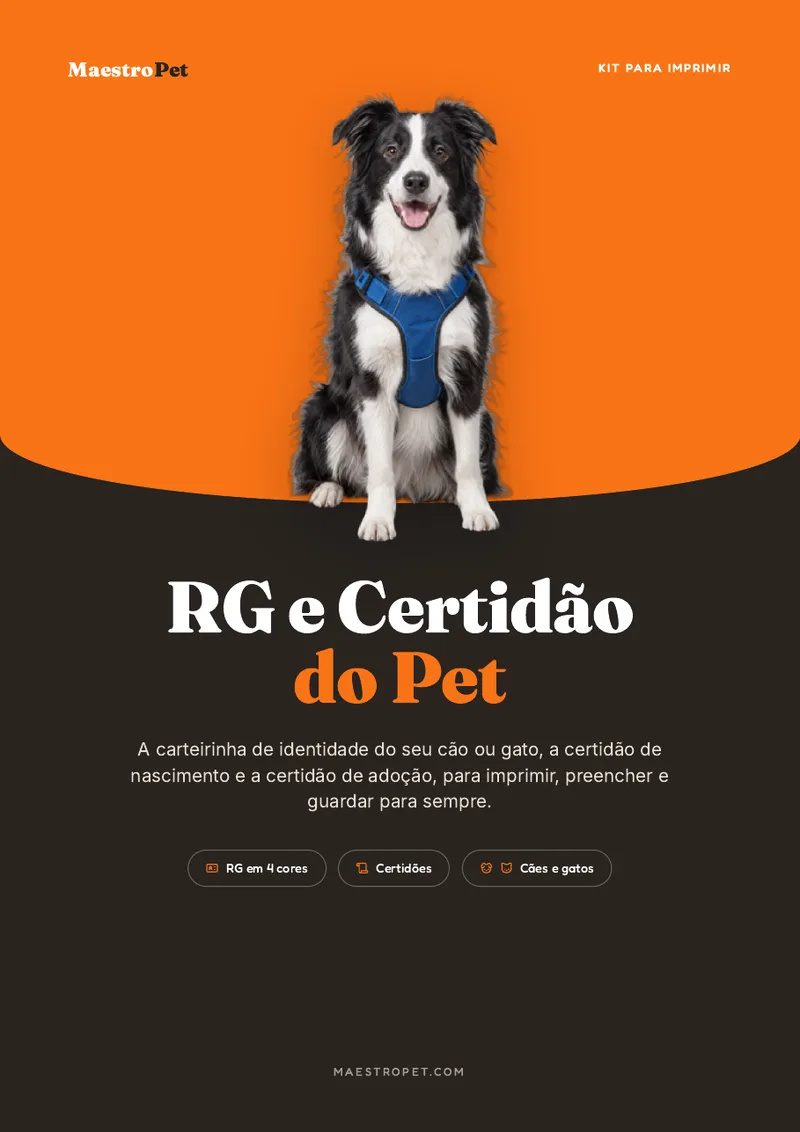
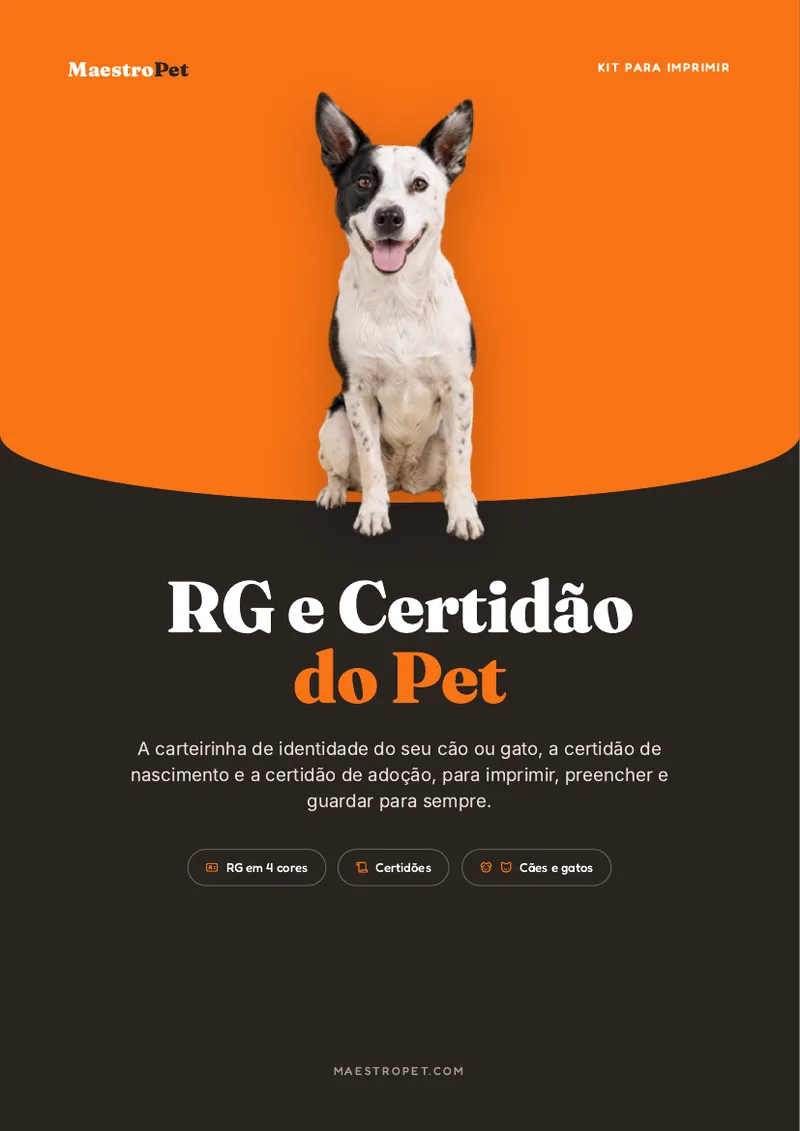
Páginas de vendas: Calendário 2027 (/calendario) e Kit Papelaria (/papelaria), fora do ar até lançar
Claude-Session: https://claude.ai/code/session_015DPV1uKuxt4KhrgCQWoJpN

diff --git a/src/lib/vendas/calendario.ts b/src/lib/vendas/calendario.ts
@@ -1,0 +1,107 @@
+import type { PaginaVendas } from "./tipos";
+
+export const calendario: PaginaVendas = {
+  slug: "calendario",
+  seo: {
+    titulo: "Calendário 2027 do Pet — para imprimir, com a foto dele em cada mês",
+    descricao:
+      "O calendário de parede de 2027 para imprimir, com a foto do seu pet em cada mês, as datas de vacina, vermífugo e antipulgas, os feriados e uma dica de cuidado por mês. R$ 9,90.",
+  },
+  hero: {
+    eyebrow: "Calendário para imprimir · cães e gatos",
+    antes: "2027 com a cara dele ",
+    destaque: "em cada mês",
+    depois: ".",
+    lead: "O calendário de parede com a foto do seu pet em cada mês e o cantinho da saúde: vacina, vermífugo, antipulgas e peso. Ninguém da casa esquece mais a próxima dose.",
+    selos: ["Acesso imediato", "12 meses + plano do ano", "Garantia de 7 dias"],
+  },
+  dores: {
+    titulo: "Na sua casa também é assim?",
+    frases: [
+      "Quem deu o vermífugo? E quando foi?",
+      "A vacina venceu e ninguém percebeu.",
+      "O antipulgas era para ter sido trocado mês passado.",
+      "Tenho fotos lindas dele que nunca saíram do celular.",
+      "Queria um presente diferente para quem ama o pet.",
+      "Esqueci de preparar ele para os fogos do Réveillon de novo.",
+    ],
+  },
+  virada: {
+    imagem: "/produtos/calendario-pag4.webp",
+    alt: "Página de janeiro do Calendário 2027 do Pet",
+    eyebrow: "Bonito e útil",
+    titulo: "Um calendário que cuida dele com você.",
+    paragrafos: [
+      "Cada mês tem um quadro grande para **a foto do seu pet**, a grade com os feriados nacionais e as datas do mundo pet, e um **cantinho da saúde** para marcar vacina, vermífugo, antipulgas e peso.",
+      "E uma **dica por mês**, pensada para a época: calor do verão, fogos das festas juninas e do Réveillon, pulgas na primavera, comidas proibidas no Natal.",
+    ],
+  },
+  recebe: {
+    titulo: "O que vem no calendário",
+    itens: [
+      ["12 meses de 2027", "Com espaço para a foto do mês, feriados nacionais e datas do mundo pet."],
+      ["Saúde do mês", "Vacina, vermífugo, antipulgas e peso, para marcar com um X."],
+      ["Dica do mês", "Um cuidado da época, mês a mês."],
+      ["O plano do ano numa página", "Os cuidados de 2027 de uma vez, para ver o ano inteiro."],
+      ["Selos para recortar", "Vacina, vermífugo, banho, aniversário, fogos e mais, para marcar os dias."],
+      ["Para cães e gatos", "E para imprimir quantas vezes quiser."],
+    ],
+    paginas: [
+      ["/produtos/calendario-pag4.webp", "Um dos meses"],
+      ["/produtos/calendario-pag2.webp", "Os selos para marcar os dias"],
+    ],
+  },
+  metodo: {
+    eyebrow: "Como usar",
+    titulo: "Pronto para a parede",
+    imagem: "/produtos/capa-calendario.webp",
+    alt: "Capa do Calendário 2027 do Pet",
+    passos: [
+      ["Imprima", "Em papel mais grosso, de preferência"],
+      ["Cole as fotos", "Uma foto dele por mês"],
+      ["Marque as datas", "Da carteira de vacinação para o calendário"],
+      ["Pendure", "Com espiral, perto da porta ou na geladeira"],
+    ],
+  },
+  bonus: {
+    titulo: "Também no calendário",
+    itens: [
+      { imagem: "/produtos/calendario-pag2.webp", titulo: "Selos para recortar", texto: "12 selos para marcar vacina, vermífugo, banho, aniversário e mais." },
+      { icone: "🎆", titulo: "Lembretes de fogos", texto: "Nos meses de festa, a dica para preparar o seu pet com antecedência." },
+      { icone: "🎁", titulo: "Ótimo presente", texto: "Imprima com as fotos do pet de quem você ama." },
+    ],
+  },
+  paraQuem: {
+    sim: [
+      "Você tem cão, gato ou os dois",
+      "Você quer organizar vacina, vermífugo e antipulgas",
+      "Você quer as fotos dele na parede",
+      "Você procura um presente diferente para quem ama pets",
+    ],
+    nao: [
+      "Você quer um calendário já impresso: este é para imprimir",
+      "Você prefere lembretes só no celular",
+    ],
+  },
+  oferta: {
+    itens: [
+      "Calendário 2027 com 12 meses",
+      "Espaço para a foto do pet em cada mês",
+      "Saúde do mês e dica do mês",
+      "Plano de saúde do ano numa página",
+      "Selos para recortar e marcar os dias",
+      "Feriados nacionais e datas do mundo pet",
+    ],
+  },
+  garantia:
+    "Imprima e pendure o calendário. Se em até 7 dias você achar que não valeu a pena, é só pedir o reembolso e você recebe 100% do valor de volta. Sem perguntas e sem burocracia.",
+  faq: [
+    ["Serve para gato?", "Sim. O calendário é para cães e gatos."],
+    ["Tem os feriados?", "Sim, os feriados nacionais de 2027. Os feriados da sua cidade você marca com os selos ou à mão."],
+    ["Como penduro?", "Imprima em papel mais grosso e peça furação e espiral na papelaria. Também dá para prender com um clipe ou um ímã na geladeira."],
+    ["Como recebo?", "Logo depois da confirmação do pagamento você recebe o acesso no seu e-mail, com o calendário em PDF."],
+  ],
+  ctaFinal: "Um ano inteiro com ele, um dia de cada vez.",
+  aviso:
+    "As dicas do mês são orientações gerais e não substituem o veterinário: o esquema de vacinas e de medicamentos de cada pet é definido por ele.",
+};

diff --git a/src/lib/vendas/papelaria.ts b/src/lib/vendas/papelaria.ts
@@ -1,0 +1,108 @@
+import type { PaginaVendas } from "./tipos";
+
+export const papelaria: PaginaVendas = {
+  slug: "papelaria",
+  seo: {
+    titulo: "Kit Papelaria do Pet — 6 kits para imprimir num pacote só",
+    descricao:
+      "Carteira de vacinação + guia, RG e certidão, álbum do primeiro ano, calendário 2027, ficha de cuidados e checklists de viagem: os 6 kits para imprimir da Maestro Pet por R$ 24,90.",
+  },
+  hero: {
+    eyebrow: "6 kits para imprimir · cães e gatos",
+    antes: "Tudo do seu pet ",
+    destaque: "organizado e impresso",
+    depois: ".",
+    lead: "A carteira de vacinação, o RG, o álbum do primeiro ano, o calendário de 2027, a ficha para quem cuida dele e os checklists de viagem. Seis kits para imprimir, num pacote só.",
+    selos: ["Acesso imediato", "6 kits", "Garantia de 7 dias"],
+  },
+  dores: {
+    titulo: "Para quem quer tudo do pet no lugar",
+    frases: [
+      "A carteirinha de vacina está rasgada e perdida.",
+      "Nunca lembro a data do vermífugo e do antipulgas.",
+      "Tenho mil fotos dele e nenhuma impressa.",
+      "Toda viagem é a mesma correria para explicar a rotina dele.",
+      "Sempre esqueço alguma coisa na mala do pet.",
+      "Queria uma lembrança bonita do dia em que ele chegou.",
+    ],
+  },
+  virada: {
+    imagem: "/produtos/papelaria-kits.webp",
+    alt: "As capas dos 6 kits para imprimir",
+    eyebrow: "Seis kits, um preço",
+    titulo: "Tudo o que dá para imprimir, num pacote só.",
+    paragrafos: [
+      "São os **6 kits para imprimir** da Maestro Pet: saúde, documentos, memórias, rotina do ano, cuidados e viagem. Separados, custam **R$ 54,40**. No pacote, saem por **R$ 24,90**.",
+      "Imprima em casa ou na gráfica, **quantas vezes quiser**, para todos os pets da casa.",
+    ],
+  },
+  recebe: {
+    titulo: "Os 6 kits",
+    itens: [
+      ["Kit Saúde do Pet", "A carteira de vacinação para imprimir, com espaço para o veterinário, e o guia de vacinas, vermífugo e antipulgas."],
+      ["RG e Certidão do Pet", "O RG para plastificar, a certidão de nascimento e a certidão de adoção."],
+      ["Álbum do Primeiro Ano", "As fotos, as primeiras vezes e o mês a mês do primeiro ano juntos."],
+      ["Calendário 2027 do Pet", "O calendário de parede com a foto dele em cada mês e a saúde do mês."],
+      ["Quem Fica com o Pet", "A ficha completa para quem cuida dele quando você viaja."],
+      ["Mala do Pet", "Os checklists para viajar com ele sem esquecer nada."],
+    ],
+    paginas: [
+      ["/produtos/saude-carteira-vacina.webp", "A carteira de vacinação"],
+      ["/produtos/album-pag9.webp", "O álbum mês a mês"],
+    ],
+  },
+  metodo: {
+    eyebrow: "Como usar",
+    titulo: "Um kit para cada momento",
+    imagem: "/produtos/rg-pag6.webp",
+    alt: "O RG do Mozart preenchido",
+    rotulo: "Kit",
+    passos: [
+      ["Saúde", "Carteira na próxima vacina"],
+      ["Documentos", "RG e certidão para guardar"],
+      ["Memórias", "Álbum e calendário com as fotos dele"],
+      ["Viagens", "Ficha de cuidados e checklists"],
+    ],
+  },
+  bonus: {
+    titulo: "Por que vale o pacote",
+    itens: [
+      { icone: "💰", titulo: "Mais da metade de desconto", texto: "R$ 54,40 separados, R$ 24,90 no pacote." },
+      { icone: "🖨", titulo: "Imprima quantas vezes quiser", texto: "Para todos os pets da casa, sem pagar de novo." },
+      { icone: "🎁", titulo: "Presente pronto", texto: "Para quem acabou de adotar ou de ganhar um filhote." },
+    ],
+  },
+  paraQuem: {
+    sim: [
+      "Você tem cão, gato ou os dois",
+      "Você gosta de ter tudo organizado e impresso",
+      "Você acabou de adotar ou ganhou um filhote",
+      "Você quer presentear quem ama pets",
+    ],
+    nao: [
+      "Você quer os kits já impressos: eles são para imprimir",
+      "Você procura um guia de adestramento: veja os nossos guias",
+    ],
+  },
+  oferta: {
+    itens: [
+      "Kit Saúde do Pet (carteira de vacinação + guia)",
+      "RG e Certidão do Pet",
+      "Álbum do Primeiro Ano",
+      "Calendário 2027 do Pet",
+      "Quem Fica com o Pet",
+      "Mala do Pet",
+    ],
+  },
+  garantia:
+    "Imprima os kits e use. Se em até 7 dias você achar que não valeu a pena, é só pedir o reembolso e você recebe 100% do valor de volta. Sem perguntas e sem burocracia.",
+  faq: [
+    ["A carteira de vacinação vale como documento?", "Sim. O que dá valor de documento é o registro do veterinário em cada vacina: etiqueta, data, carimbo com o CRMV e assinatura. A carteira tem todos esses campos."],
+    ["O RG é oficial?", "Não. O RG e as certidões são documentos de lembrança. O cadastro oficial e gratuito é o SinPatinhas, e o kit ensina a fazer."],
+    ["Serve para gato?", "Sim. Todos os kits servem para cães e gatos."],
+    ["Como recebo?", "Logo depois da confirmação do pagamento você recebe o acesso no seu e-mail, com os 6 kits em PDF."],
+  ],
+  ctaFinal: "Tudo do seu pet, organizado e impresso.",
+  aviso:
+    "Os kits têm caráter educativo e de organização e não substituem o veterinário. O RG e as certidões são documentos de lembrança, sem valor legal.",
+};

diff --git a/src/lib/produtos.ts b/src/lib/produtos.ts
@@ -142,6 +142,26 @@ export const PRODUTOS: Produto[] = [
     checkout: "https://pay.cakto.com.br/3ab6fqm",
     lancado: false,
   },
+  {
+    slug: "calendario",
+    nome: "Calendário 2027 do Pet",
+    chamada: "O calendário de parede para imprimir, com a foto dele em cada mês e as datas de vacina, vermífugo e antipulgas.",
+    dor: "Quem deu o vermífugo? E quando foi?",
+    preco: 9.9,
+    capa: "/produtos/capa-calendario.webp",
+    checkout: "https://pay.cakto.com.br/y8veb39",
+    lancado: false,
+  },
+  {
+    slug: "papelaria",
+    nome: "Kit Papelaria do Pet",
+    chamada: "Os 6 kits para imprimir num pacote só: saúde, RG, álbum, calendário, ficha de cuidados e viagem.",
+    dor: "Tudo do seu pet organizado e impresso.",
+    preco: 24.9,
+    capa: "/produtos/papelaria-kits.webp",
+    checkout: "https://pay.cakto.com.br/32wc3di",
+    lancado: false,
+  },
 ];
 
 export const produto = (slug: string) => PRODUTOS.find((p) => p.slug === slug)!;

diff --git a/src/lib/vendas/index.ts b/src/lib/vendas/index.ts
@@ -1,8 +1,10 @@
 import type { PaginaVendas } from "./tipos";
 import { album } from "./album";
+import { calendario } from "./calendario";
 import { filhote } from "./filhote";
 import { gato } from "./gato";
 import { normal } from "./normal";
+import { papelaria } from "./papelaria";
 import { petiscos } from "./petiscos";
 import { rg } from "./rg";
 import { saude } from "./saude";
@@ -11,4 +13,4 @@ import { tedio } from "./tedio";
 import { xixi } from "./xixi";
 
 /** Páginas de vendas publicadas, por slug. Para lançar um guia, adicione o arquivo e registre aqui. */
-export const PAGINAS: Record<string, PaginaVendas> = { xixi, filhote, petiscos, tedio, sozinho, gato, normal, saude, rg, album };
+export const PAGINAS: Record<string, PaginaVendas> = { xixi, filhote, petiscos, tedio, sozinho, gato, normal, saude, rg, album, calendario, papelaria };
